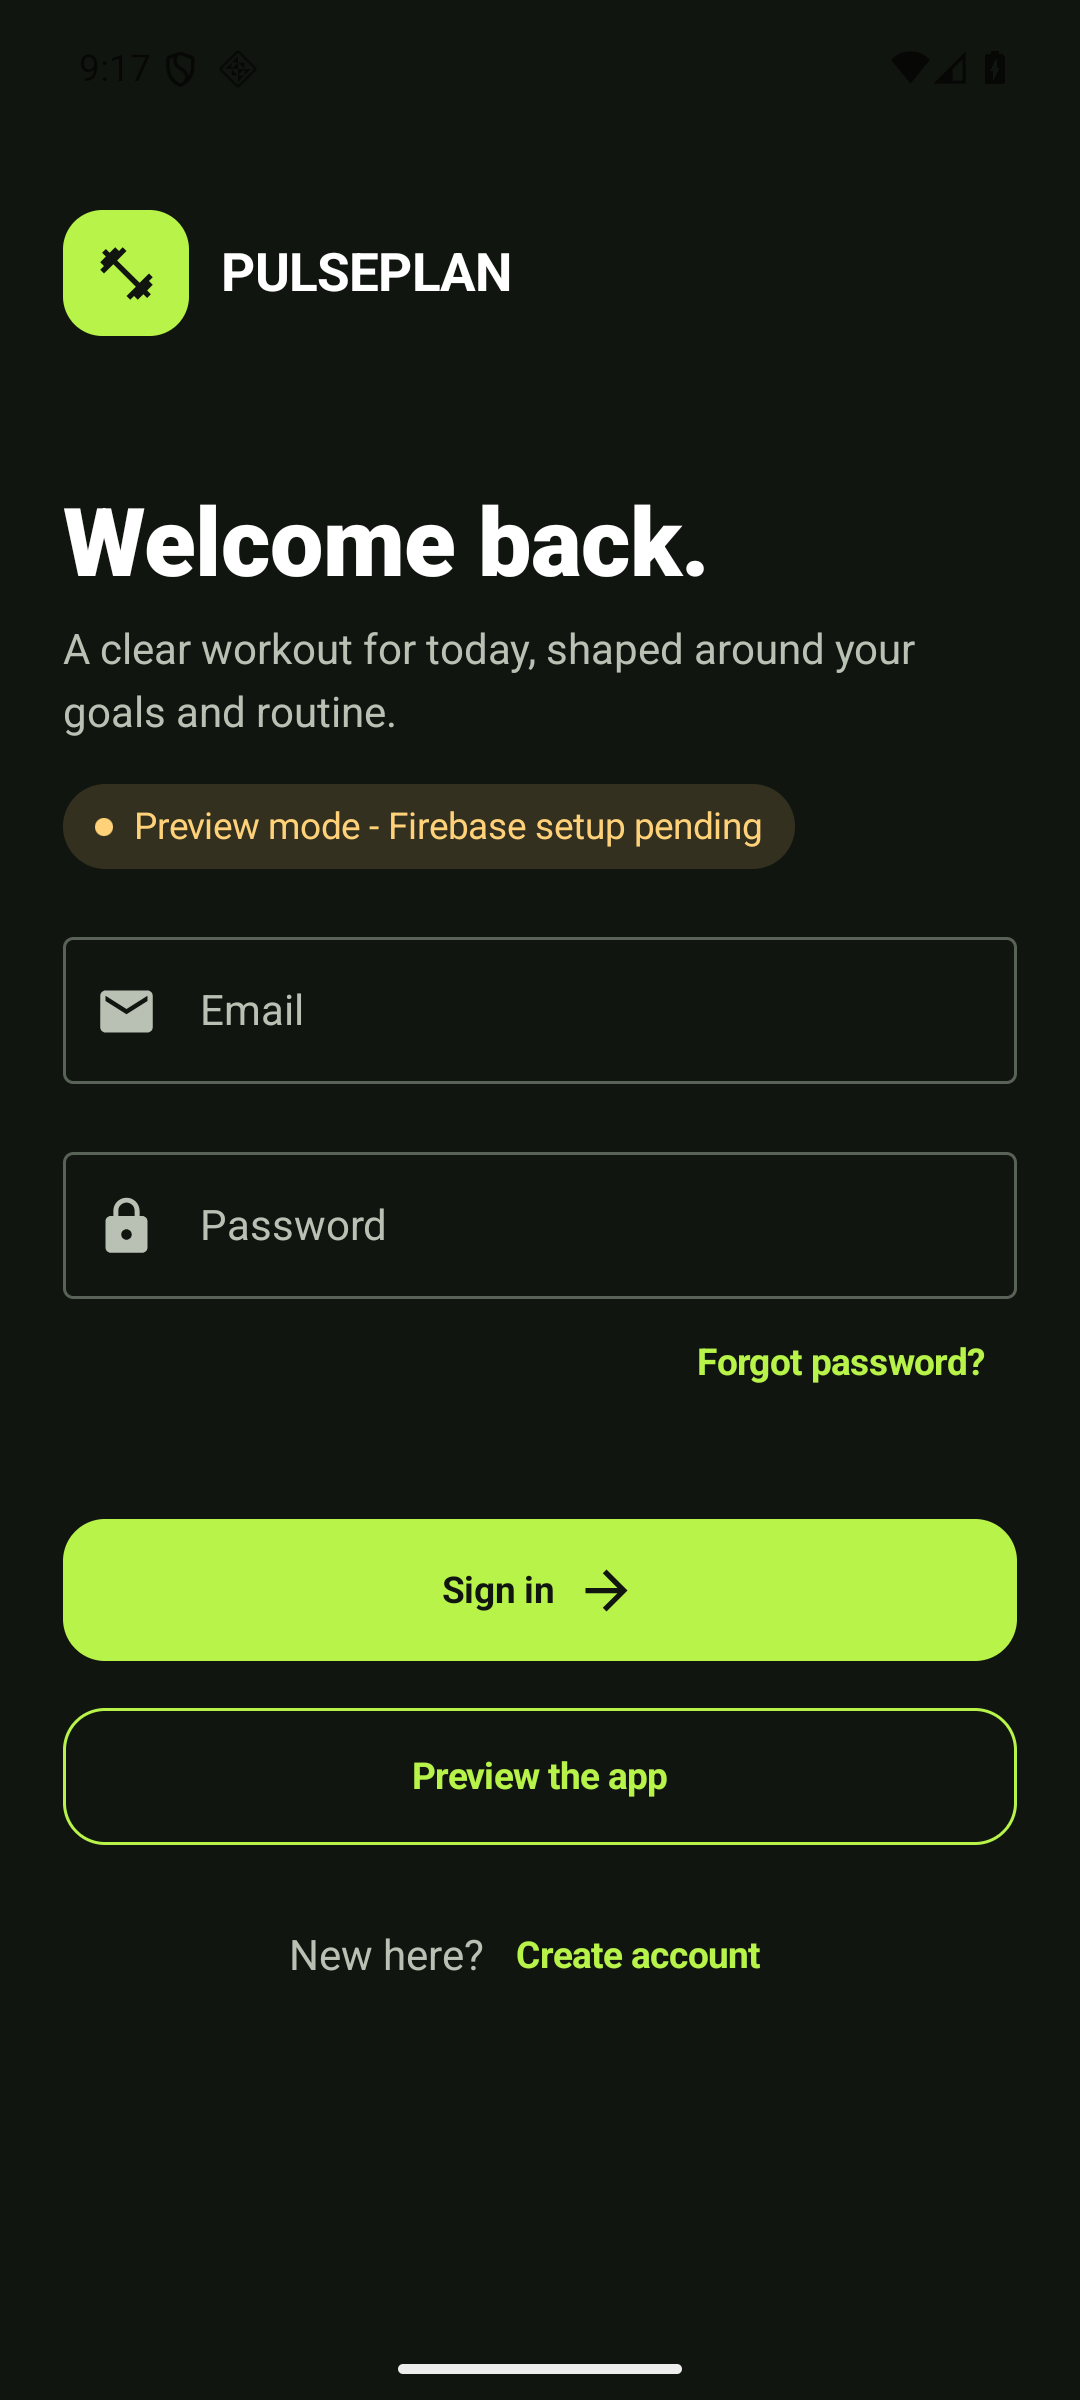
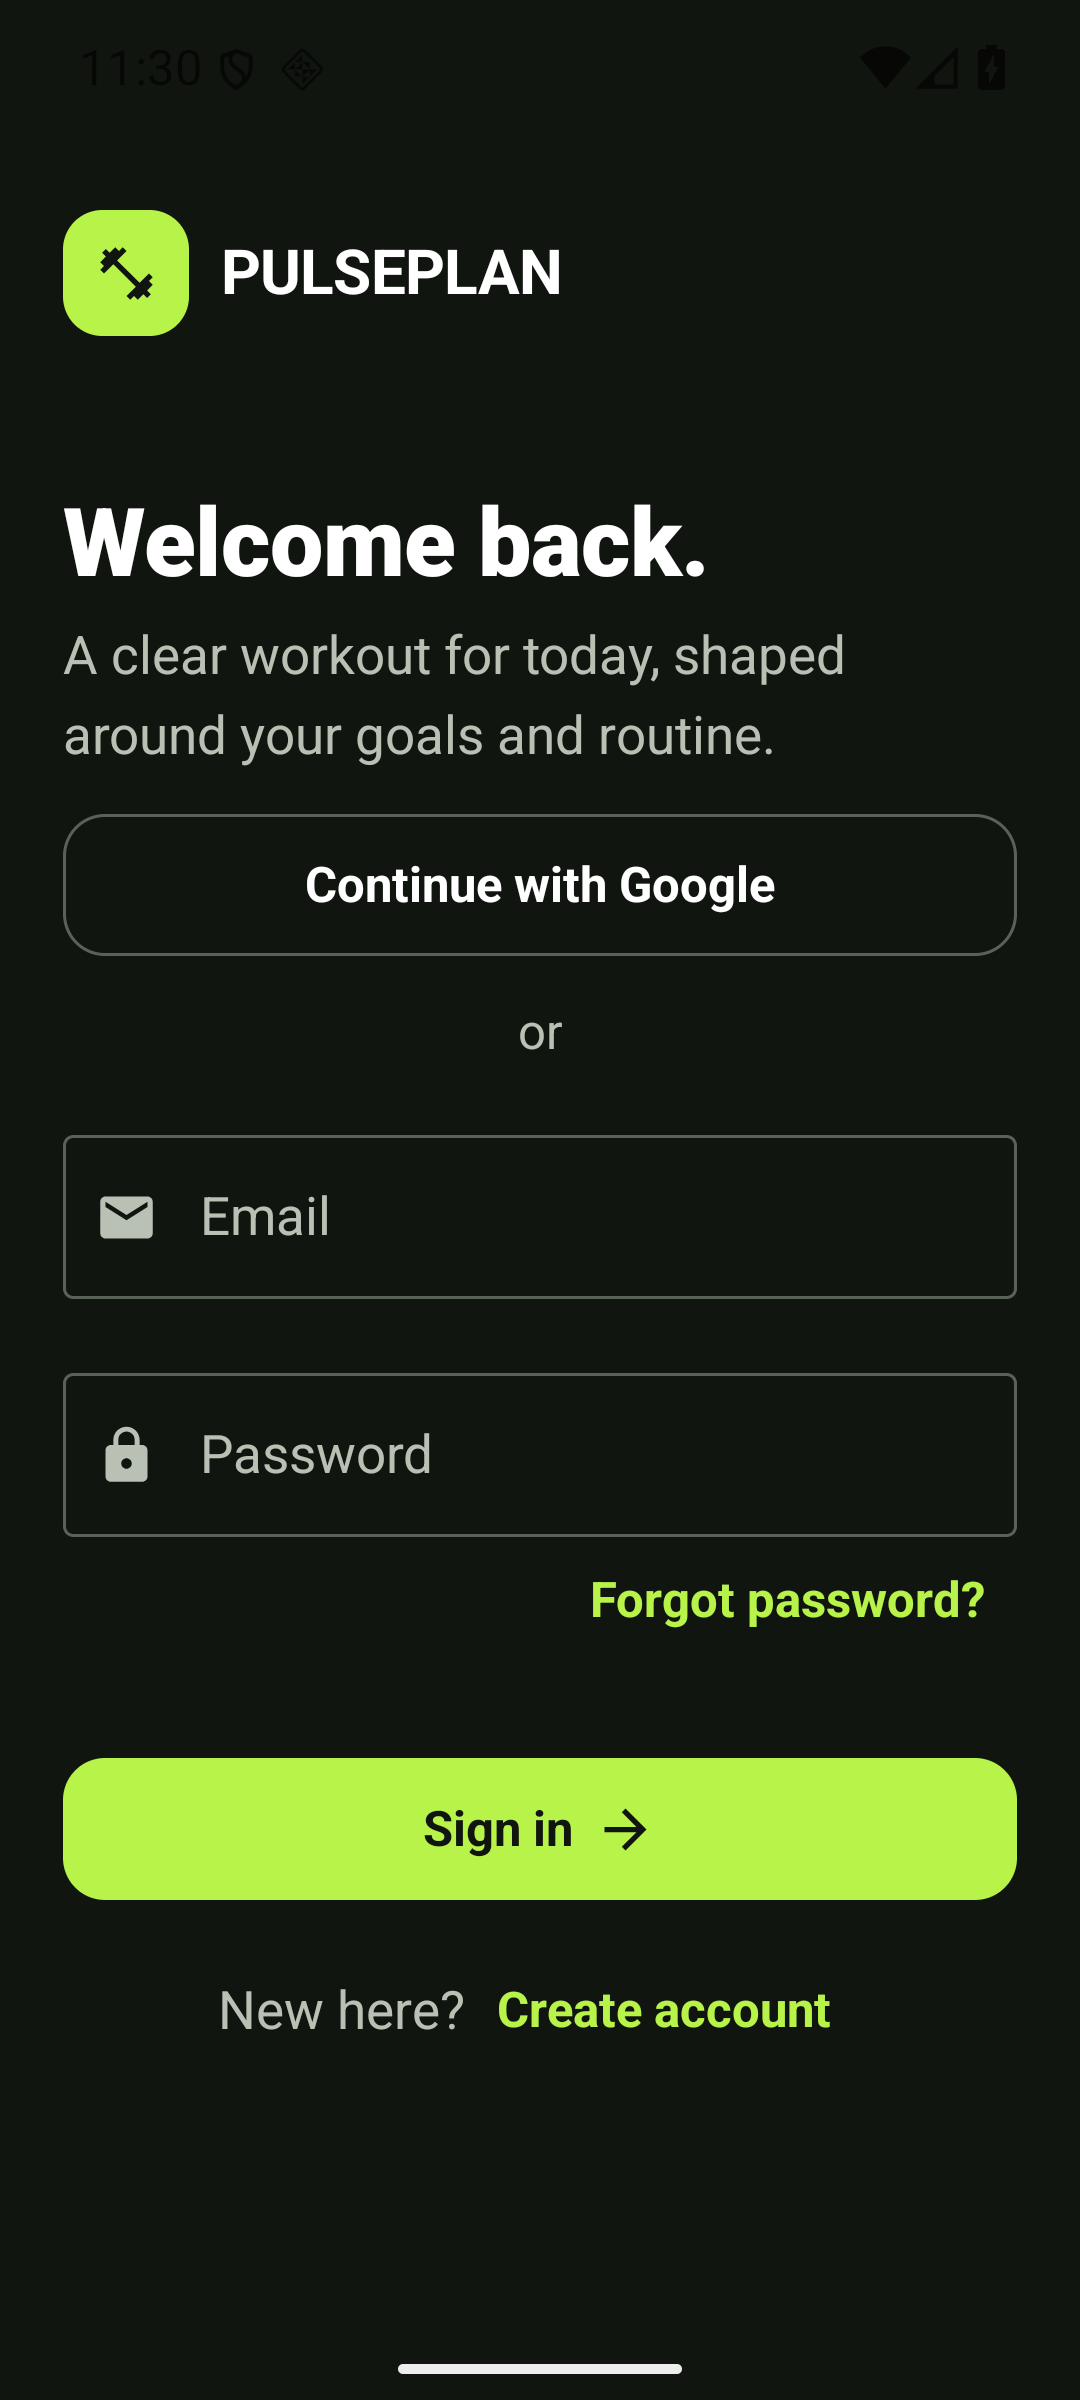
Publish current PulsePlan proof and CI

diff --git a/README.md b/README.md
@@ -1,15 +1,64 @@
 # PulsePlan
 
+[![Android CI](https://github.com/ahsanrehmat1/PulsePlan/actions/workflows/android-ci.yml/badge.svg)](https://github.com/ahsanrehmat1/PulsePlan/actions/workflows/android-ci.yml)
+
 I built PulsePlan as an Android workout planner with Kotlin and Jetpack Compose.
 It creates a daily plan from a user's goal, experience, workout personality,
 equipment, schedule, and preferred session length.
 
 **[View my portfolio](https://ahsanrehmat1.github.io)**
 
-![PulsePlan sign-in screen](docs/images/pulseplan-auth.png)
+<p align="center">
+  <img
+    src="docs/images/pulseplan-dashboard.png"
+    alt="PulsePlan dashboard showing cloud backup, today's progress, and workout tracking"
+    width="300"
+  />
+</p>
 
 New to the project? Start with my plain-language
 [beginner guide](docs/BEGINNER_GUIDE.md).
+
+## Current app walkthrough
+
+<table>
+  <tr>
+    <td align="center" width="25%">
+      <img src="docs/images/pulseplan-auth.png" alt="PulsePlan Firebase sign-in screen" />
+      <br /><sub>Firebase sign-in</sub>
+    </td>
+    <td align="center" width="25%">
+      <img src="docs/images/pulseplan-onboarding.png" alt="PulsePlan personalized onboarding screen" />
+      <br /><sub>Personalized onboarding</sub>
+    </td>
+    <td align="center" width="25%">
+      <img src="docs/images/pulseplan-preferences.png" alt="PulsePlan schedule and movement preferences" />
+      <br /><sub>Plan preferences</sub>
+    </td>
+    <td align="center" width="25%">
+      <img src="docs/images/pulseplan-active-workout.png" alt="PulsePlan set-by-set workout screen" />
+      <br /><sub>Set-by-set workouts</sub>
+    </td>
+  </tr>
+  <tr>
+    <td align="center" width="25%">
+      <img src="docs/images/pulseplan-exercise-guide.png" alt="PulsePlan exercise guide screen" />
+      <br /><sub>Exercise guidance</sub>
+    </td>
+    <td align="center" width="25%">
+      <img src="docs/images/pulseplan-progress.png" alt="PulsePlan progress insights screen" />
+      <br /><sub>Progress insights</sub>
+    </td>
+    <td align="center" width="25%">
+      <img src="docs/images/pulseplan-performance.png" alt="PulsePlan performance log screen" />
+      <br /><sub>Performance logging</sub>
+    </td>
+    <td align="center" width="25%">
+      <img src="docs/images/pulseplan-dashboard.png" alt="PulsePlan personalized dashboard" />
+      <br /><sub>Cloud-backed dashboard</sub>
+    </td>
+  </tr>
+</table>
 
 ## Current vertical slice
 
